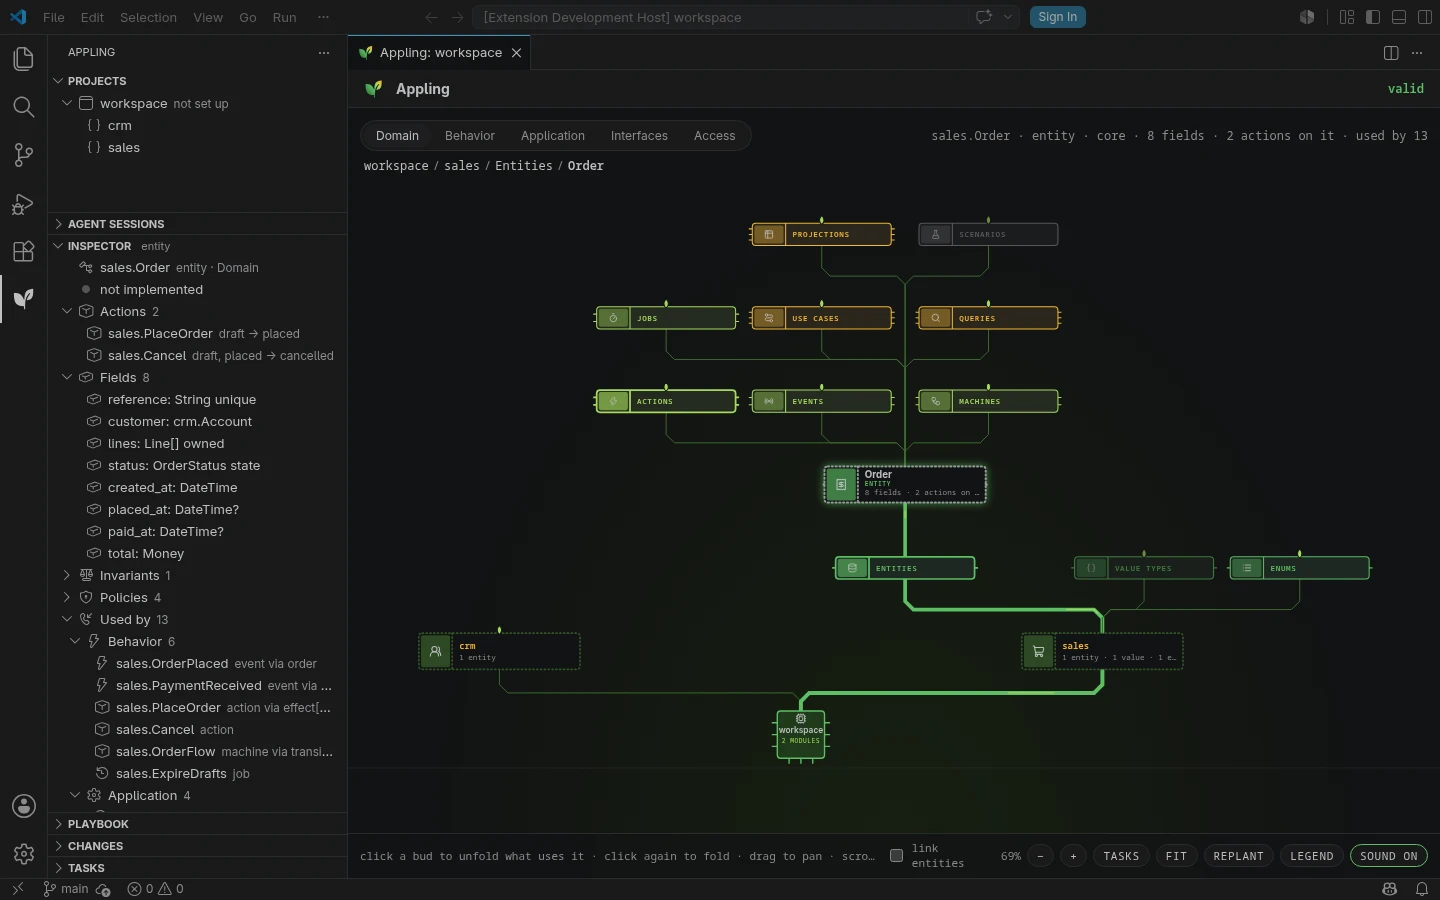
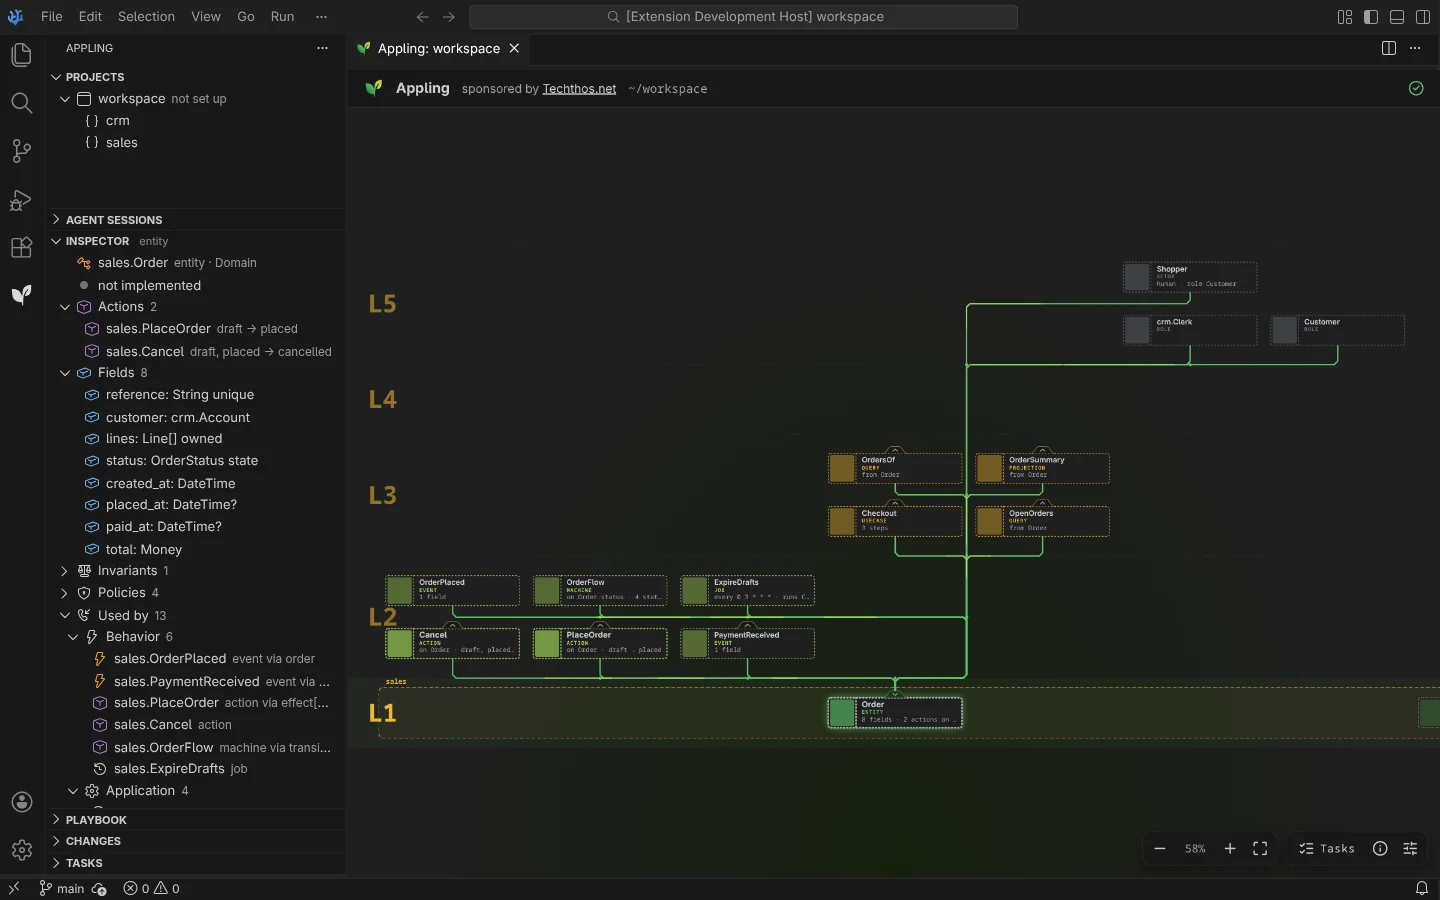
feat(landing): show the flow as a loop, the canvas as a screenshot and code generation as the AI gain
How it works now reads model with text, validate, inspect, generate
and loops back. The Example section shows a screenshot of the
inspector canvas in place of the drawn graph, the targets section
leads with what generated code saves an agent, and the VS Code
screenshots are retaken from the current build.

diff --git a/packages/landing/src/styles/global.css b/packages/landing/src/styles/global.css
@@ -146,9 +146,6 @@
   .backlabel { animation: backlabel 10s ease infinite; }
   .step { transition: transform .2s cubic-bezier(.23,1,.32,1); }
   .step:hover { transform: translateY(-2px); }
-  .edge { marker-end: url(#ah); }
-  .edgelabel { paint-order: stroke; stroke: var(--color-surface-raised); stroke-width: 6px; stroke-linejoin: round; }
-  .node { animation: fadein .7s ease both; }
   .type { animation: typing 1.1s steps(32) both; }
   .cursor { display: inline-block; width: 9px; height: 18px; margin-left: 4px; vertical-align: -3px; background: var(--color-leaf); animation: blink 1s steps(1) infinite; }
 

diff --git a/.claude/skills/publish/SKILL.md b/.claude/skills/publish/SKILL.md
@@ -75,7 +75,9 @@ Retake the two screenshots of the landing site's VS Code section (`packages/land
 - `packages/landing/public/vscode-canvas.webp`: the canvas in a tab, the sales module unfolded up to `sales.Order`, the Inspector panel listing its actions, fields and what uses it.
 - `packages/landing/public/vscode-editor.webp`: the canvas on the left, `sales.appling` on the right at `entity Order`, the gutter marks visible.
 
-Take them as PNG under `.sandbox/output`, convert to WebP at the same names, look at both, and update the `alt` and `text` in `VSCode.astro` when what they show changed.
+- `packages/landing/public/inspect-canvas.webp` (Example section, `Example.astro`): from `pnpm sandbox inspect`, the canvas only at 960x480, `sales.Order` unfolded upwards and centred.
+
+A user with VSCodium starts the target with `CODE=codium pnpm sandbox vscode`. Replace the home path in the inspector header with `~/workspace` before a shot. Take them as PNG under `.sandbox/output`, convert to WebP at the same names, look at both, and update the `alt` and `text` in `VSCode.astro` when what they show changed.
 
 ## 5. Commit, push, publish
 
